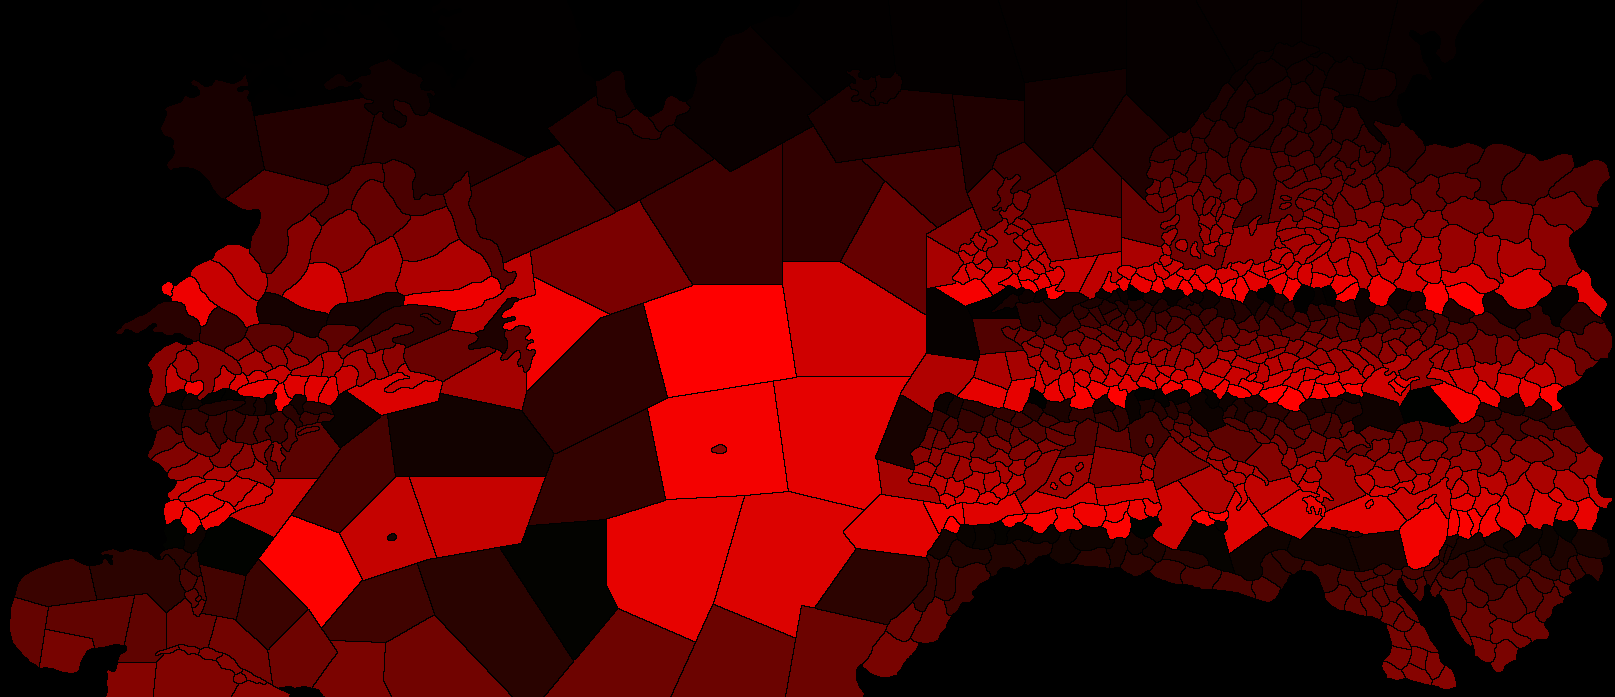
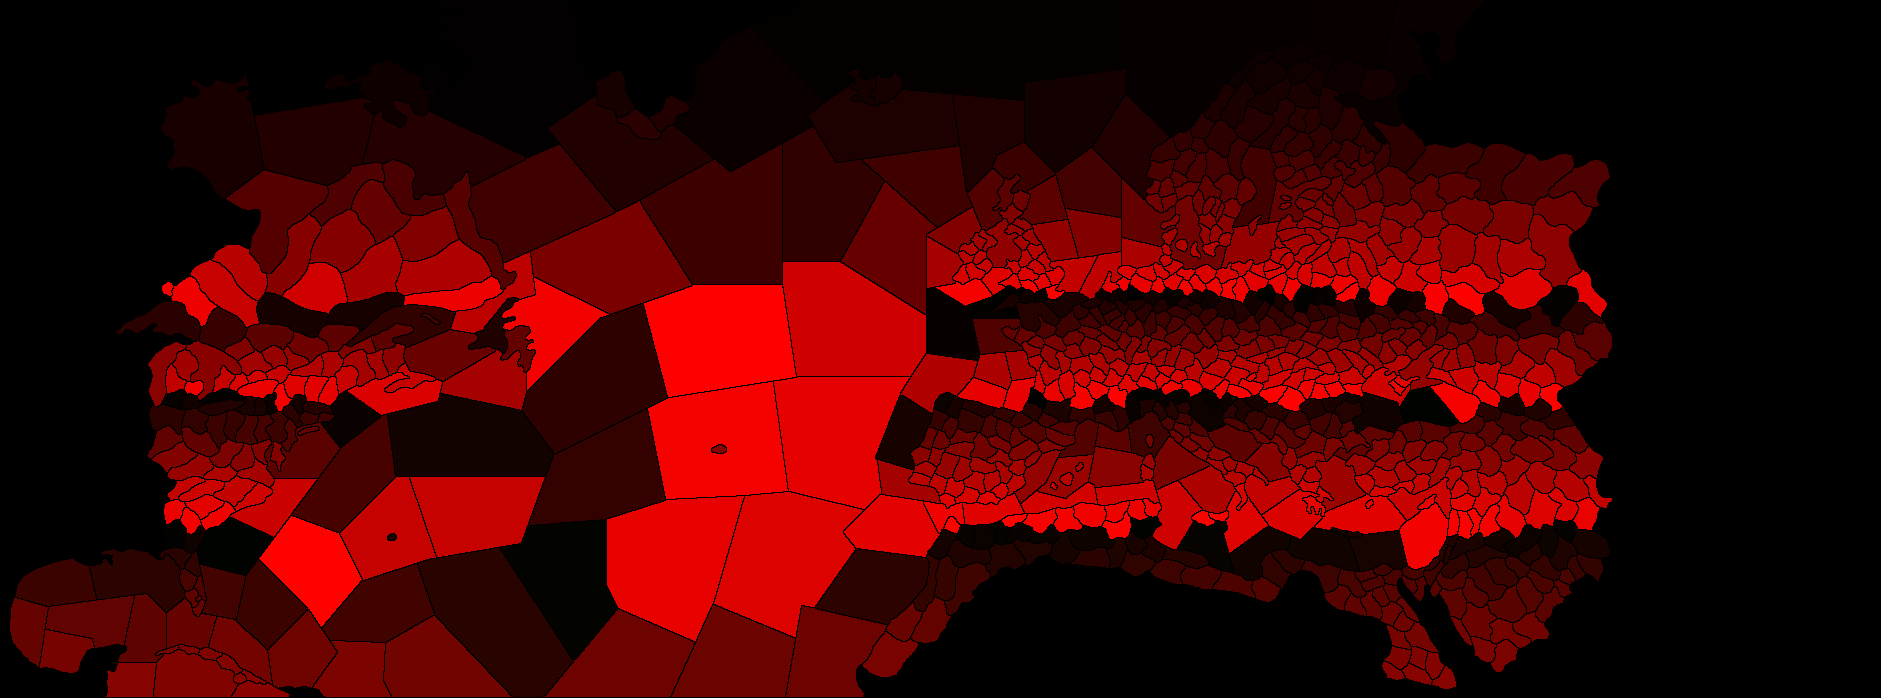
europe map edited, also automatic_map_painter.py works

diff --git a/map_tools/automatic_map_painter.py b/map_tools/automatic_map_painter.py
@@ -1,7 +1,12 @@
 import tkinter as tk
 from tkinter import filedialog, messagebox, ttk, simpledialog
-from data.constants import WATER_TERRAINS
+import sys
 import os
+
+# Add the parent directory (project root) to the Python path so it can find the 'data' module
+sys.path.append(os.path.abspath(os.path.join(os.path.dirname(__file__), '..')))
+
+from data.constants import WATER_TERRAINS
 from PIL import Image
 import json
 